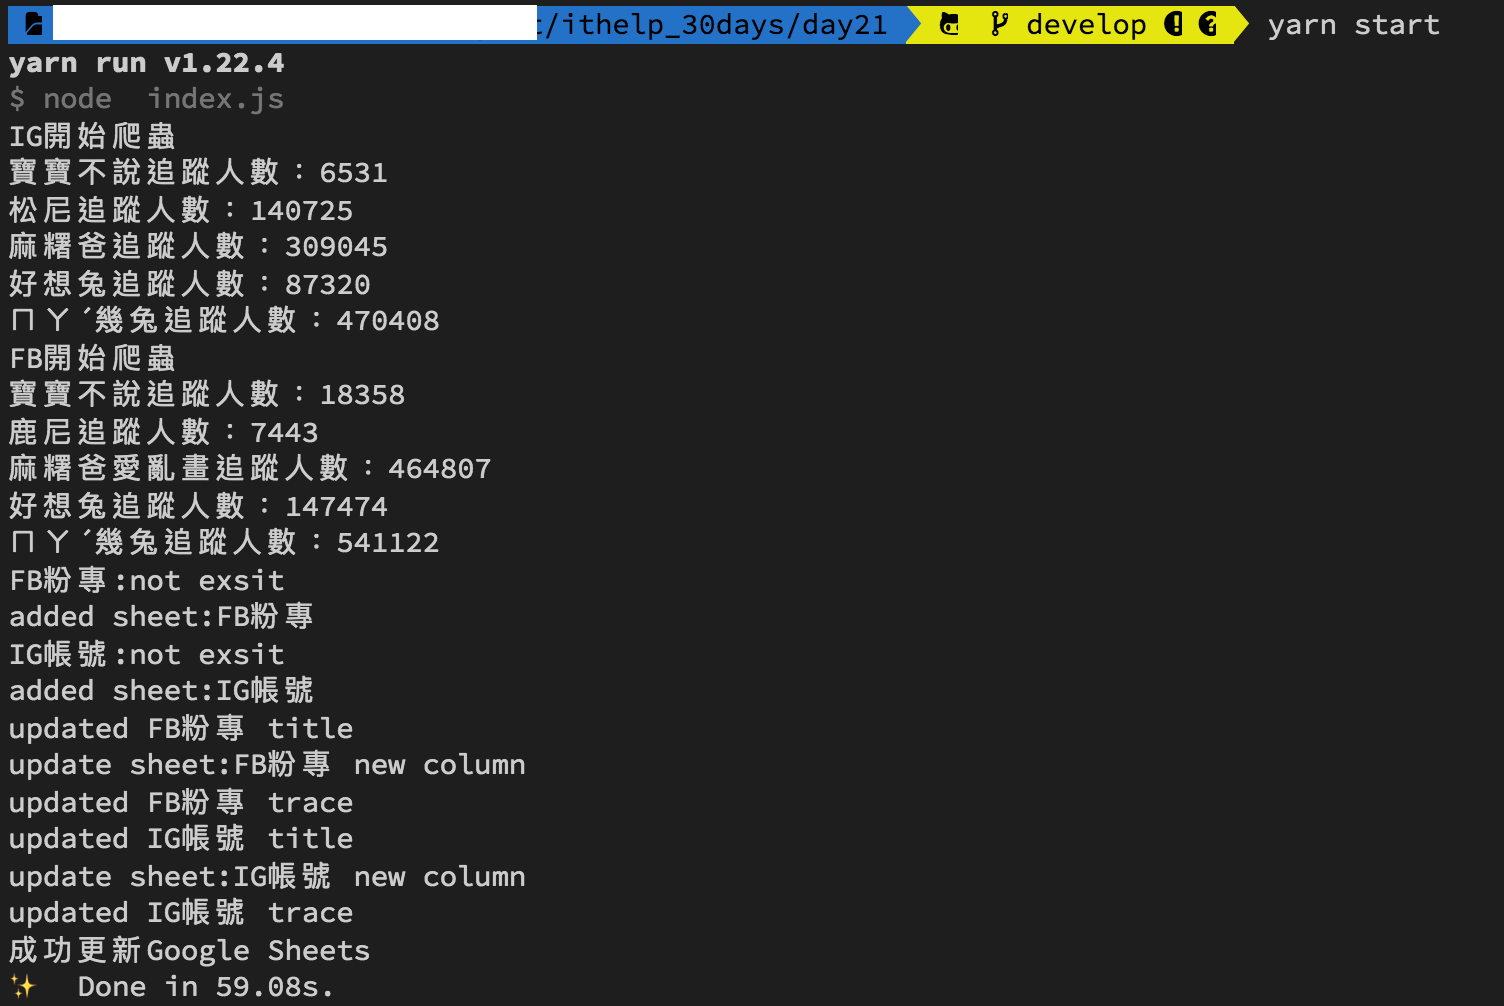
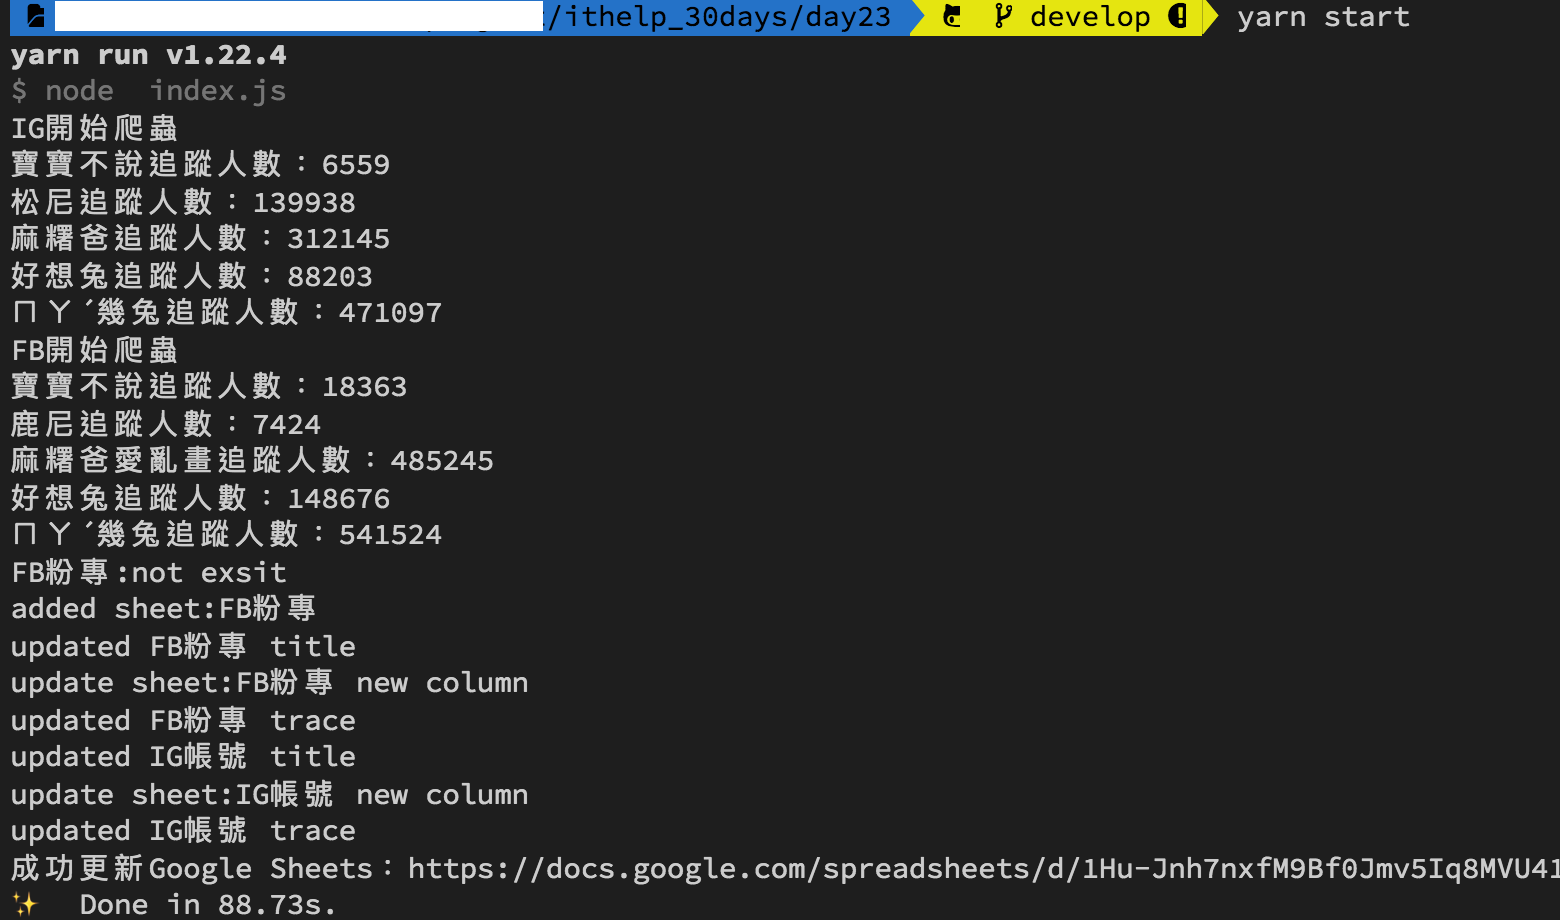
complete day23

Changed region(s): [[0.0, 0.0, 1.0, 1.0]]

diff --git a/day23/tools/google_sheets/index.js b/day23/tools/google_sheets/index.js
@@ -88,7 +88,11 @@ async function addSheet (title, auth) {//新增一個sheet到指定的Google She
         "addSheet": {//這個request的任務是addSheet
           // 你想給這個sheet的屬性
           "properties": {
-            "title": title
+            "title": title,
+            "gridProperties": {
+              "frozenRowCount": 1,//我將最上面那一列設定為凍結
+              "frozenColumnCount": 1//我將最左邊那一欄設定為凍結
+            },
           }
         },
       }]

diff --git a/day23/README.md b/day23/README.md
@@ -1,33 +1,91 @@
 #### [回目錄](../README.md)
 ## Day23 Google Sheets-優化格式，滿足客戶需求 & 談使用者體驗
 
-就如標題所述，為了提升Google Sheets閱讀上的體驗，他新增了兩個要求：  
-1. 窗口凍結：最上方的爬蟲日期、左方的粉專名稱在瀏覽時凍結
-2. 欄位寬度調整：減少追蹤人數的欄位寬度，這樣才能一次看比較多資訊
+>你是做好一件作品，還是完成一項任務
 
-建議大家可以先看官方文件說明：[窗口凍結](https://developers.google.com/sheets/api/reference/rest/v4/spreadsheets#gridproperties)、
-[欄位寬度調整](https://developers.google.com/sheets/api/reference/rest/v4/spreadsheets/request#UpdateDimensionPropertiesRequest)  
-* 原則上對Google Sheets的任何動作，只要你能夠手動操作的他都有提供api給你使用，所以強烈建議日後想要用api操作Google Sheets的朋友們一定要練習看懂官方文檔  
+🏆 今日目標
+----
+### 1. 了解使用者體驗為什麼重要
+1.1 那些不堪回首的共同回憶
+1.2 是什麼原因製造出這些體驗的
+1.3 有在使用產品的人才會給你最真實的回饋，專案還有哪些地方要改善呢？
 
-窗口凍結
-------------------------
-我將這個功能合併到創建sheet的函式(addSheet)，從邏輯上來說他只需要在建立sheet時執行一次就夠了
+### 2. 優化`用手機來看Google Sheets的爬蟲資料`的體驗
+2.1 如何優化`用手機來看Google Sheets的爬蟲資料`
+2.2 窗口凍結：將最上方的爬蟲日期、左方的粉專名稱欄位凍結
+2.3 欄位寬度調整：減少追蹤人數的欄位寬度
+
+----
+
+# 1. 了解使用者體驗為什麼重要
+>讓客戶用的開心他們才會買單
+
+### 1.1 那些不堪回首的共同回憶
+我想每個人都有過類似經驗：
+1. **操作系統時讓你感到焦慮**
+    * 我Ｘ，到底這個系統要怎麼操作啊？為什麼按下去沒反應？到底哪裡弄錯了？
+    * 卡在loading的畫面已經10分鐘，所以我要繼續等嗎？
+2. **你想要用的功能會隱身術**
+    * 我想要用XXX功能，到底他在哪裡才能操作？
+    * 為什麼要改版啦？功能都不知道跑去哪了？
+3. **每個按鈕都像定時炸彈**
+    * 所以這個按鈕是什麼意思？是下一步還是送出？
+    * 痾...下單了？這不是加入購物車嗎？
+4. **懷疑設計者是不是嗑藥**
+    * 簡訊的驗證碼有6碼，可是眼前能輸入的欄位只有4碼，是在哈嚕？
+    * 線上填完表格後不能儲存只能下載列印後寄給主辦單位，如果要用郵件寄出幹嘛設計成網頁?
+
+
+### 1.2 是什麼原因製造出這些體驗的
+相信遇到這些經驗的時候大家心裡都會想：`這麼爛的東西到底是誰設計出來的啊？他自己真的有用過嗎？`
+
+總結發生這些不好的經驗通常都是因為：
+1. **沒有了解使用者真正的需求**：這是許多外包案的真實狀況，工程師的目標是驗收通過，而承包商也只是為了把事情做完有績效，當`甲乙方都不在乎終端使用者的需求時，完成的產品通常不堪入目`
+2. **經驗不足**：很多時候有些報價比較低的案子會交給公司的新人，如果公司也沒有讓前輩在旁邊給予指導會讓這個`產品有非常多的漏洞`
+3. **沒有足夠的測試**：有些案子時程非常的趕，在這樣的狀態下通常`產品的穩定度很低，且操作時也很容易發生錯誤`
+4. **經費不足**：花大錢的案子不一定做得好，但是錢少的案子基本上都不太好，一分錢一分貨，`壓價格的時候一定會喪失品質`
+
+### 1.3 有在使用產品的人才會給你最真實的回饋，專案還有哪些地方要改善呢？
+沒有一開始就完美的專案，`客戶的需求會在使用的過程中慢慢增加`，這個專案也在業主使用的過程中增加了一些需求：
+1. 下班後會`用手機來看Google Sheets的爬蟲資料`，操作起來不是很順，想問有沒有好的建議
+2. 上班太忙會忘記跑爬蟲程式，能不能`指定爬蟲程式在某個時間點自動執行`
+3. 因為執行爬蟲程式的時候我也要做事情，能不能`有個通知提醒我爬蟲執行的狀況`
+
+今天會先講 **第一點** 的優化方案，讓我們一起將這個專案變得更好用吧！
+
+----
+
+# 2. 優化`用手機來看Google Sheets的爬蟲資料`的體驗
+>原則上你想對Google Sheets的任何操作官方都有提供api給你，如果你時常會使用到的話請一定要讀懂官方文件，關於官方文件的閱讀可以複習[這篇文章](/day19/README.md)喔
+
+### 2.1 如何優化`用手機來看Google Sheets的爬蟲資料`
+這個問題分析起來很簡單，主要就是下面兩點：
+1. 因為資料存在Google sheets上面，資料量一大就很難觀看
+2. 手機螢幕小，能呈現的資料不多
+
+後來再跟客戶討論的過程中發現`這個問題在使用電腦時也會有，但是使用手機時問題更嚴重`，於是我再看他Google Sheets的爬蟲資料時提出了優化方案，讓他在使用上方便許多：
+1. **將最上方的爬蟲日期、左方的粉專名稱欄位凍結**
+  * 這樣在瀏覽時就不需要一直往上確認日期、往左確認他是哪個粉專了
+2. **減少追蹤人數的欄位寬度**
+  * 我們無法改變手機的螢幕寬度，但是改變資料欄位的寬度能讓一個螢幕能呈現更多的資訊
+
+
+### 2.2 窗口凍結：將最上方的爬蟲日期、左方的粉專名稱欄位凍結
+我將這個功能合併到創建sheet的函式`addSheet`，窗口凍結這件事在`建立sheet時執行一次就夠了`
+>詳細的官方文件請參考[窗口凍結](https://developers.google.com/sheets/api/reference/rest/v4/spreadsheets#gridproperties)
 ```js
-async function addSheet (title, sheet_id, auth) {//新增一個sheet到指定的Google Sheets
+async function addSheet (title, sheet_id, auth) {
   const sheets = google.sheets({ version: 'v4', auth });
   const request = {
-    // The ID of the spreadsheet
     "spreadsheetId": process.env.SPREADSHEET_ID,
     "resource": {
       "requests": [{
-        "addSheet": {//這個request的任務是addSheet
-          // 你想給這個sheet的屬性
+        "addSheet": {
           "properties": {
-            "sheetId": sheet_id,//必須為數字，且這個欄位是唯一值
             "title": title,
             "gridProperties": {
-              "frozenRowCount": 1,//我將最上面那一列設定為凍結
-              "frozenColumnCount": 1//我將最左邊那一欄設定為凍結
+              "frozenRowCount": 1,//最上面那一列(爬蟲日期)設定為凍結
+              "frozenColumnCount": 1//最左邊那一欄(粉專名稱)設定為凍結
             },
           }
         },
@@ -44,25 +102,22 @@ async function addSheet (title, sheet_id, auth) {//新增一個sheet到指定的
 }
 ```
 
-欄位寬度調整
-------------------------
-經過實驗後發現如果是新插入的欄位都會是預設的欄位寬度，所以我在插入新欄位的函式(insertEmptyCol)新增了調整欄位寬度的功能  
-* 在這個Google Sheets的request中你可以發現他是可以同時執行多個要求的(insertDimension、updateDimensionProperties)，原本我打算要把這兩個request合併到一起，但實際執行會跳出錯誤如下圖，官方文件沒有提供的功能就不要想太多了，老老實實分成兩個步驟執行吧  
-
-    ![image](./article_img/terminalerr.png)  
+### 2.3 欄位寬度調整：減少追蹤人數的欄位寬度
+為了能容納能多的資訊量，所以我們要在在插入新欄位`insertEmptyCol`時給他一個合適的欄位寬度
+* 在下方範例程式中你可以發現 Google Sheets 的 `requests 內是可以執行多個要求的(insertDimension、updateDimensionProperties)`
+>詳細的官方文件請參考[欄位寬度調整](https://developers.google.com/sheets/api/reference/rest/v4/spreadsheets/request#UpdateDimensionPropertiesRequest)  
 ```js
-async function insertEmptyCol (title, sheet_id, auth) {//插入空白欄位
+async function insertEmptyCol (title, sheet_id, auth) {
   const sheets = google.sheets({ version: 'v4', auth });
   const request = {
-    // The ID of the spreadsheet
     "spreadsheetId": process.env.SPREADSHEET_ID,
     "resource": {
       "requests": [{
-        "insertDimension": {//插入新欄位
+        "insertDimension": {
           "range": {
             "sheetId": sheet_id,
             "dimension": "COLUMNS",
-            "startIndex": 1,//代表插入範圍從第一欄開始到第二欄結束
+            "startIndex": 1,
             "endIndex": 2
           },
           "inheritFromBefore": true
@@ -73,11 +128,11 @@ async function insertEmptyCol (title, sheet_id, auth) {//插入空白欄位
           "range": {
             "sheetId": sheet_id,
             "dimension": "COLUMNS",
-            "startIndex": 1,
-            "endIndex": 2//只需要首欄
+            "startIndex": 1,//只需要首欄
+            "endIndex": 2
           },
           "properties": {
-            "pixelSize": 85
+            "pixelSize": 85//欄位寬度
           },
           "fields": "pixelSize"
         }
@@ -94,32 +149,41 @@ async function insertEmptyCol (title, sheet_id, auth) {//插入空白欄位
 }
 ```
 
+----
+
 執行程式
 ----
-* 在執行程式之前請先把Google Sheets的'FB粉專'、'IG帳號'這兩個sheet刪除喔，因為addSheet函式要觸發才會有窗口凍結的功能  
-
-刪除sheet後在專案資料夾的終端機(Terminal)執行指令 **yarn start** 指令，看看線上的Google Sheets是否有符合今天設定的格式呢？  
+1. 在執行程式之前請先把Google Sheets的'FB粉專'、'IG帳號'這兩個sheet刪除，因為`addSheet函式要觸發才會有窗口凍結`的功能  
+2. 刪除sheet後 在專案資料夾的終端機(Terminal)執行指令
+```vim
+yarn start
+```
+3. 看看線上的Google Sheets是否有符合今天設定的格式：窗口凍結、欄位寬度調整
 ![image](./article_img/terminal.png)  
 ![image](./article_img/googlesheet.png)  
 
-下個階段
-------------------------
-Google Sheets系列文章到這裡告一個段落，接下來我們會討論**排程自動化**的部分，敬請期待
-
-專案原始碼
 ----
-完整的程式碼在[這裡](https://github.com/dean9703111/ithelp_30days/tree/master/day22)喔
-你可以整個專案clone下來  
-```
-git clone https://github.com/dean9703111/ithelp_30days/tree/master.git
-```
-如果你已經clone過了，那你每天pull就能取得更新的資料嚕  
-```
-git pull origin master
-cd day22
-yarn
-調整你.env檔填上 FB & IG 登入資訊、SPREADSHEET_ID
-在credentials資料夾放上自己的憑證
-yarn start
-```
+
+⏭ 下個階段
+------------------------
+Google Sheets系列文章到這裡告一個段落，接下來我們依照今天提到專案要改善的地方繼續前進，接著來聊聊`把排程加入爬蟲專案`這個主題吧
+
+----
+
+ℹ 專案原始碼
+----
+* 今天的完整程式碼可以在[這裡](https://github.com/dean9703111/ithelp_30days/tree/master/day23)找到喔
+* 我也貼心地把昨天的把昨天的程式碼打包成[壓縮檔](https://github.com/dean9703111/ithelp_30days/raw/master/sampleCode/day22_sample_code.zip)，你可以用裡面乾淨的環境來完成業主要求的需求變更吧
+    * 請記得在終端機下指令 **yarn** 才會把之前的套件安裝
+    * 要在tools/google_sheets資料夾放上自己的憑證
+    * 調整fanspages資料夾內目標爬蟲的粉專網址
+    * 調整.env檔
+        * 填上FB登入資訊
+        * 填上FB版本(classic/new)
+        * 填上IG登入資訊
+        * 填上SPREADSHEET_ID
+
+📖 參考資源
+----
+1. [了解使用者體驗 (UX) 的第一堂課](https://designtongue.me/%E4%BA%86%E8%A7%A3%E4%BD%BF%E7%94%A8%E8%80%85%E9%AB%94%E9%A9%97-ux-%E7%9A%84%E7%AC%AC%E4%B8%80%E5%A0%82%E8%AA%B2/)
 ### [Day24 排程-時間一到爬蟲自己動起來](/day24/README.md)

diff --git a/day19/README.md b/day19/README.md
@@ -276,7 +276,7 @@ crawler()
 ℹ 專案原始碼
 ----
 * 今天的完整程式碼可以在[這裡](https://github.com/dean9703111/ithelp_30days/tree/master/day19)找到喔
-* 我也貼心地把昨天的把昨天的程式碼打包成[壓縮檔](https://github.com/dean9703111/ithelp_30days/raw/master/sampleCode/day18_sample_code.zip)，你可以用裡面乾淨的環境來實作今天Google Sheets的起手式喔
+* 我也貼心地把昨天的把昨天的程式碼打包成[壓縮檔](https://github.com/dean9703111/ithelp_30days/raw/master/sampleCode/day18_sample_code.zip)，你可以用裡面乾淨的環境來實作今天Google Sheets的Sheet處理喔
     * 請記得在終端機下指令 **yarn** 才會把之前的套件安裝
     * 要在tools/google_sheets資料夾放上自己的憑證
     * 調整你.env檔填上SPREADSHEET_ID
@@ -286,4 +286,4 @@ crawler()
 📖 參考資源
 ----
 [callback、Promise 和 async/await 那些事兒](https://noob.tw/js-async/)
-### [Day20 Google Sheets-寫入爬蟲資料，解放你的繁瑣日常](/day20/README.md)
+### [Day20 Google Sheets-寫入爬蟲資料，跟 Copy & Paste 的日子說掰掰](/day20/README.md)

diff --git a/day21/README.md b/day21/README.md
@@ -178,7 +178,7 @@ async function writeSheet (title, result_array, auth) {
 ℹ 專案原始碼
 ----
 * 今天的完整程式碼可以在[這裡](https://github.com/dean9703111/ithelp_30days/tree/master/day21)找到喔
-* 我也貼心地把昨天的把昨天的程式碼打包成[壓縮檔](https://github.com/dean9703111/ithelp_30days/raw/master/sampleCode/day18_sample_code.zip)，你可以用裡面乾淨的環境來實作今天Google Sheets的起手式喔
+* 我也貼心地把昨天的把昨天的程式碼打包成[壓縮檔](https://github.com/dean9703111/ithelp_30days/raw/master/sampleCode/day18_sample_code.zip)，你可以用裡面乾淨的環境來解決客戶回報的bug喔
     * 請記得在終端機下指令 **yarn** 才會把之前的套件安裝
     * 要在tools/google_sheets資料夾放上自己的憑證
     * 調整fanspages資料夾內目標爬蟲的粉專網址

diff --git a/README.md b/README.md
@@ -50,7 +50,7 @@
     * [Day17 Google Sheets-免費儲存資料的好選擇，一起進入省錢起手式](/day17/README.md)
     * [Day18 Google Sheets-加入版控後被github警告了，官方範例做了什麼？](/day18/README.md)
     * [Day19 Google Sheets-你在文件迷路了嗎？用兩個處理Sheet的範例帶你攻略官方文件](/day19/README.md)
-    * [Day20 Google Sheets-寫入爬蟲資料，解放你的繁瑣日常](/day20/README.md)
+    * [Day20 Google Sheets-寫入爬蟲資料，跟 Copy & Paste 的日子說掰掰](/day20/README.md)
     * [Day21 Google Sheets-爬蟲資料塞錯位置了! & 與客戶溝通bug的技巧](/day21/README.md)
     * [Day22 Google Sheets-業主：我希望新資料插在最前面 & 談需求變更](/day22/README.md)
     * [Day23 Google Sheets-優化格式，滿足客戶需求 & 談使用者體驗](/day23/README.md)

diff --git a/day20/README.md b/day20/README.md
@@ -288,7 +288,7 @@ yarn start
 ℹ 專案原始碼
 ----
 * 今天的完整程式碼可以在[這裡](https://github.com/dean9703111/ithelp_30days/tree/master/day20)找到喔
-* 我也貼心地把昨天的把昨天的程式碼打包成[壓縮檔](https://github.com/dean9703111/ithelp_30days/raw/master/sampleCode/day19_sample_code.zip)，你可以用裡面乾淨的環境來實作今天Google Sheets的起手式喔
+* 我也貼心地把昨天的把昨天的程式碼打包成[壓縮檔](https://github.com/dean9703111/ithelp_30days/raw/master/sampleCode/day19_sample_code.zip)，你可以用裡面乾淨的環境來實作今天Google Sheets的爬蟲資料寫入喔
     * 請記得在終端機下指令 **yarn** 才會把之前的套件安裝
     * 要在tools/google_sheets資料夾放上自己的憑證
     * 調整fanspages資料夾內目標爬蟲的粉專網址

diff --git a/day22/README.md b/day22/README.md
@@ -118,7 +118,7 @@ yarn start
 ℹ 專案原始碼
 ----
 * 今天的完整程式碼可以在[這裡](https://github.com/dean9703111/ithelp_30days/tree/master/day22)找到喔
-* 我也貼心地把昨天的把昨天的程式碼打包成[壓縮檔](https://github.com/dean9703111/ithelp_30days/raw/master/sampleCode/day21_sample_code.zip)，你可以用裡面乾淨的環境來實作今天Google Sheets的起手式喔
+* 我也貼心地把昨天的把昨天的程式碼打包成[壓縮檔](https://github.com/dean9703111/ithelp_30days/raw/master/sampleCode/day21_sample_code.zip)，你可以用裡面乾淨的環境來完成業主要求的需求變更吧
     * 請記得在終端機下指令 **yarn** 才會把之前的套件安裝
     * 要在tools/google_sheets資料夾放上自己的憑證
     * 調整fanspages資料夾內目標爬蟲的粉專網址

diff --git a/day18/README.md b/day18/README.md
@@ -161,7 +161,7 @@
 ℹ 專案原始碼
 ----
 * 今天的完整程式碼可以在[這裡](https://github.com/dean9703111/ithelp_30days/tree/master/day18)找到喔
-* 我也貼心地把昨天的把昨天的程式碼打包成[壓縮檔](https://github.com/dean9703111/ithelp_30days/raw/master/sampleCode/day17_sample_code.zip)，你可以用裡面乾淨的環境來實作今天Google Sheets的起手式喔
+* 我也貼心地把昨天的把昨天的程式碼打包成[壓縮檔](https://github.com/dean9703111/ithelp_30days/raw/master/sampleCode/day17_sample_code.zip)，你可以用裡面乾淨的環境來改寫Google Sheets的範例喔
     * 請記得在終端機下指令 **yarn** 才會把之前的套件安裝
     * 要在tools/google_sheets資料夾放上自己的憑證，今天的程式才能執行喔
 
